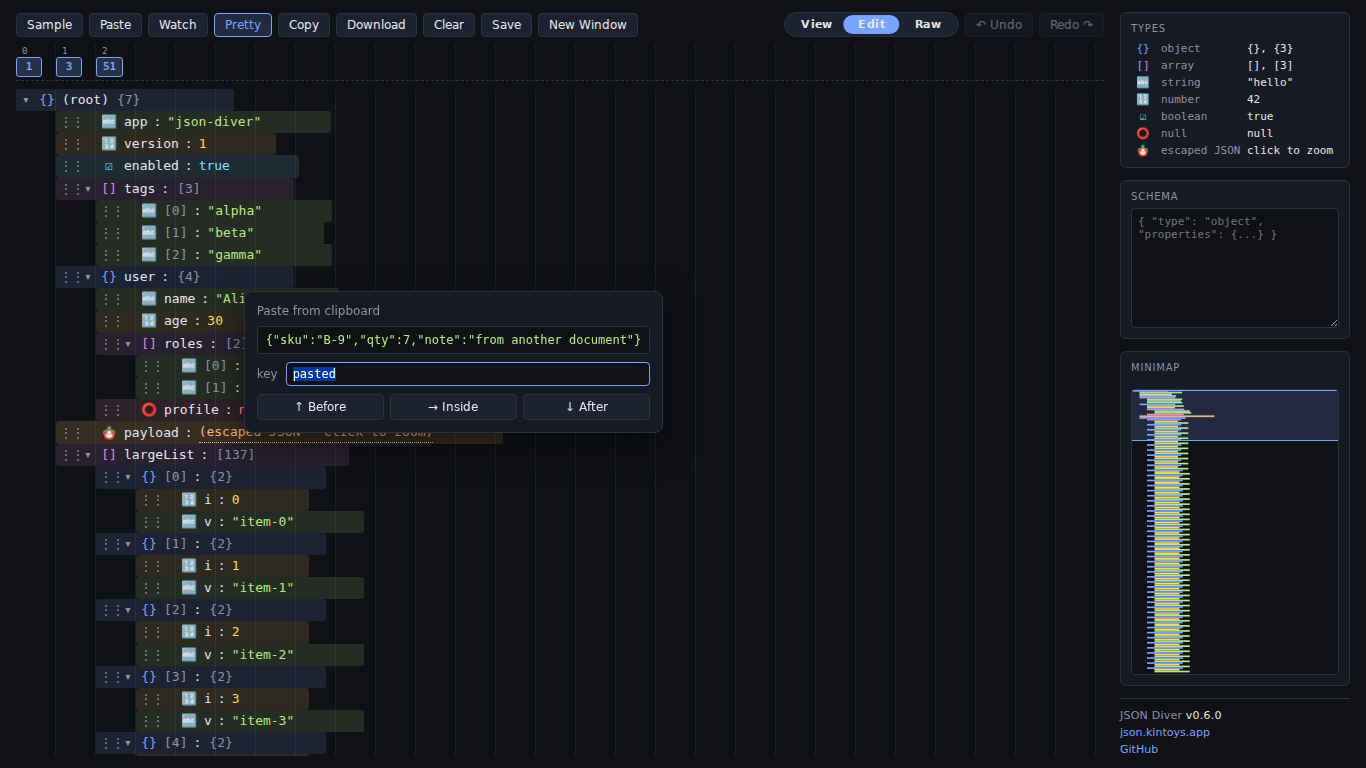
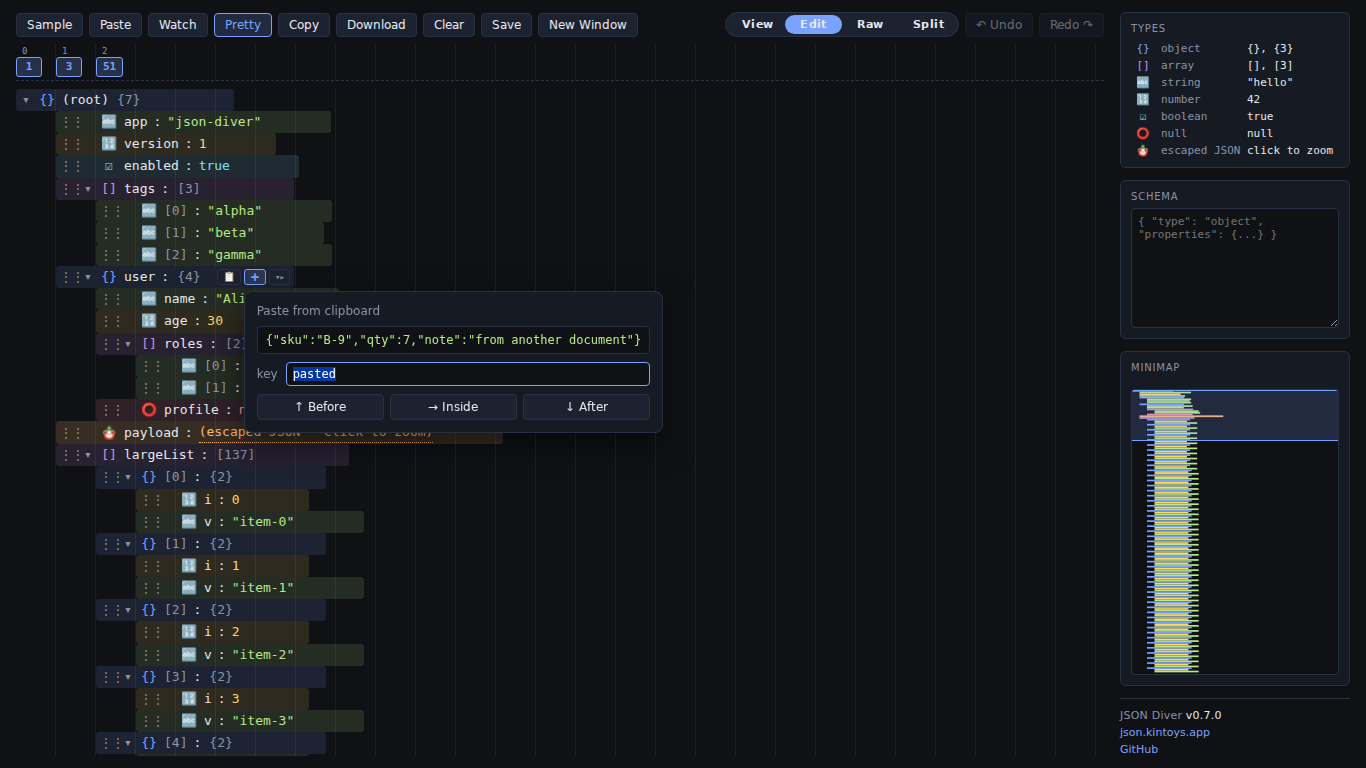
docs(store): スクリーンショットを v0.7.0 で更新し、Split を登録情報に追記
- 既存 6 枚を本番 (v0.7.0) から再撮影
- 06-split-two-documents.png を追加（ドラッグ中。左の user が右の features へ
  入る直前で、ドロップインジケータと受け側ペインの枠が出ている状態）。
  raw モードは 07 に繰り下げ、計 7 枚
- ドラッグ中の撮影は、アプリ自身の dragstart / dragover を発火させて行った。
  ヘッドレスのマウス操作では HTML5 ドラッグが開始されないため
- 日本語・英語の登録情報に Split を追記。4 モードの説明に変更し、機能一覧には
  上限 20 項目を保つためウィンドウ関連の 2 項目を 1 つに統合して枠を作った

Claude-Session: https://claude.ai/code/session_01SVssBrZETX7UxQiRKb8Lag

Changed region(s): [[0.8609, 0.5, 0.8917, 0.875], [0.5227, 0.0, 0.6764, 0.0625], [0.1537, 0.3438, 0.2152, 0.375]]

diff --git a/store/listing-ja.md b/store/listing-ja.md
@@ -43,14 +43,24 @@ JSON を階層ツリーとして描画するので、構造は「括弧を数え
 中身のミニツリーが見えます。サイドバーのミニマップは文書全体を型ごとに色分けした
 俯瞰図にし、クリックすればその位置へ飛べます。
 
-**その場で編集、あるいはテキストとして編集**
+**その場で編集、テキストとして編集、あるいは 2 文書を並べて編集**
 
-3 つのモードを 1 つのスイッチで切り替えます。
+4 つのモードを 1 つのスイッチで切り替えます。
 
 - **View** — 閲覧・コピー・ズームに専念
 - **Edit** — 値をクリックしてその場で編集。行のハンドルをドラッグして、ノードを
   別のノードの前・中・後ろへ移動
 - **Raw** — 生の JSON テキスト。手で打ったほうが速いときのために
+- **Split** — もう 1 つの文書を横に並べ、ノードを行き来させる
+
+**Split: 2 つの文書の間でノードを移動する**
+
+Split は、開いている文書の横にもう 1 つの文書を開きます。ハンドルを掴んで片方の
+ペインからもう片方へドラッグすると、ノードは**移動**します。元のペインから取り除かれ、
+落とした位置にキーを保ったまま入ります。宛先で既に使われているキーは上書きせず拒否し、
+着地したノードはハイライトされます。ペインをまたぐ移動は **Ctrl+Z 一回で両方の文書が
+元に戻ります**。API レスポンスから設定ファイルへブロックを引き抜くとき、エディタを
+経由せずに済みます。
 
 編集は文書をまたげます。どこかで JSON をコピーし（別ウィンドウのノードでも、
 チャットに貼られた断片でも）、入れたい行の **+** を押して、前・中・後ろのどこへ
@@ -114,13 +124,14 @@ https://github.com/motohasystem/json-diver
 9. ドラッグ＆ドロップでノードを移動（前に挿入／中に入れる／後ろに挿入）
 10. あらゆる編集に対する取り消し・やり直し（Ctrl+Z / Ctrl+Shift+Z）
 11. Raw モードで JSON をテキストとして直接編集
-12. Pretty トグル。2 スペース整形と 1 行圧縮を全体に一括適用
-13. JSON Schema による逐次検証。違反箇所をハイライトし、違反が増える編集は拒否
-14. クリップボードの JSON を、任意の行の前・中・後ろにノードとして挿入
-15. クリップボード監視。どのアプリでコピーした JSON も自動で読み込み
-16. ファイルの種類を関連付ければ `.json` をダブルクリックで起動
-17. Ctrl+S で元ファイルへ UTF-8 / BOM なしで上書き保存
-18. ファイルごとに別ウィンドウ。Ctrl+N で空の新規ウィンドウ
+12. Split モード。2 つの文書を左右に並べ、ノードを D&D で行き来させる
+13. Pretty トグル。2 スペース整形と 1 行圧縮を全体に一括適用
+14. JSON Schema による逐次検証。違反箇所をハイライトし、違反が増える編集は拒否
+15. クリップボードの JSON を、任意の行の前・中・後ろにノードとして挿入
+16. クリップボード監視。どのアプリでコピーした JSON も自動で読み込み
+17. ファイルの種類を関連付ければ `.json` をダブルクリックで起動
+18. Ctrl+S で元ファイルへ上書き保存（UTF-8 / BOM なし）。ファイルごとに別ウィンドウ、
+    Ctrl+N で空の新規ウィンドウ
 19. 任意のノード、または文書全体をワンクリックでクリップボードへコピー
 20. 完全オフライン動作。アカウント不要・テレメトリなし・データは端末外に出ません
 

diff --git a/store/listing-en.md b/store/listing-en.md
@@ -44,14 +44,24 @@ object shows a miniature of its contents without expanding it, and the minimap i
 sidebar turns the entire document into a colour-coded overview you can click to
 navigate.
 
-**Edit in place, or as text**
+**Edit in place, as text, or two documents at once**
 
-Three modes, one switch:
+Four modes, one switch:
 
 - **View** — read-only browsing, copying and zooming
 - **Edit** — click a value to change it inline; drag a row by its handle to move a
   node before, inside or after another one
 - **Raw** — the JSON as text, for when it is simply faster to type
+- **Split** — a second document beside the first, with nodes draggable between them
+
+**Split: move nodes between two documents**
+
+Split opens a second document beside the one you have open. Drag a node by its handle
+from one pane into the other and it moves there — out of the pane it came from, into
+the position you dropped it, keeping its key. A key already taken on the far side is
+refused rather than overwritten, the node that landed is highlighted, and one Ctrl+Z
+puts a cross-pane move back on both sides at once. It is how you lift a block out of an
+API response and drop it into a config file without a round trip through an editor.
 
 Editing also reaches across documents. Copy JSON anywhere — a node from another
 window, a fragment from a chat message — press **+** on the row you want it next to,
@@ -115,14 +125,15 @@ https://github.com/motohasystem/json-diver
 9. Move nodes by drag and drop — insert before, move inside, or insert after
 10. Undo and redo across every kind of edit (Ctrl+Z / Ctrl+Shift+Z)
 11. Raw mode for editing the JSON directly as text
-12. Pretty toggle: 2-space indentation or minified to one line, everywhere at once
-13. Validates against a JSON Schema as you type, highlighting violations in the tree,
+12. Split mode: two documents side by side, with nodes draggable from one to the other
+13. Pretty toggle: 2-space indentation or minified to one line, everywhere at once
+14. Validates against a JSON Schema as you type, highlighting violations in the tree,
     and refuses edits that would introduce new ones
-14. Inserts JSON from the clipboard as a new node, before, inside or after any row
-15. Clipboard watch: JSON copied in any application is loaded automatically
-16. Opens `.json` files on double-click once the file type is associated
-17. Ctrl+S saves back over the original file as UTF-8 without a BOM
-18. Opens each file in its own window; Ctrl+N for a new empty one
+15. Inserts JSON from the clipboard as a new node, before, inside or after any row
+16. Clipboard watch: JSON copied in any application is loaded automatically
+17. Opens `.json` files on double-click once the file type is associated
+18. Ctrl+S saves back over the original file as UTF-8 without a BOM; each file opens
+    in its own window, and Ctrl+N gives you an empty one
 19. Copies any node — or the whole document — to the clipboard in one click
 20. Works fully offline: no account, no telemetry, nothing leaves the device
 

diff --git a/store/README.md b/store/README.md
@@ -23,9 +23,10 @@ build serves both, only the listing text differs.
 | `03-escaped-json-zoom.png` | Escaped JSON zoomed into its own window, with a further escaped value inside |
 | `04-schema-validation.png` | JSON Schema validation: violating rows highlighted, ⚠ 3 badge in the toolbar |
 | `05-insert-from-clipboard.png` | Inserting a node from the clipboard: the popup with its before/inside/after choice |
-| `06-raw-mode.png` | Raw mode — the JSON as editable text |
+| `06-split-two-documents.png` | Split mode mid-drag: a node on its way from the left document into the right one |
+| `07-raw-mode.png` | Raw mode — the JSON as editable text |
 
-All six are 1366×768 PNG, above the Store's minimum for PC screenshots.
+All seven are 1366×768 PNG, above the Store's minimum for PC screenshots.
 
 **How they were produced, and what to check.** They were captured from the shipping
 app at <https://json.kintoys.app> with the desktop shell's DOM applied — the topbar
@@ -35,7 +36,11 @@ captures of the installed `.msix`. If you would rather ship literal desktop capt
 take them from the installed app at 1366×768 or larger and replace the files; the
 listing text does not depend on them.
 
-The version badge in the sidebar reads `v0.6.0`. Re-capture when that number changes
+The Split shot is taken mid-drag by dispatching the app's own `dragstart` / `dragover`
+events, so the drop indicator and the receiving-pane outline are the real ones the app
+renders — a plain mouse-down does not start an HTML5 drag in a headless browser.
+
+The version badge in the sidebar reads `v0.7.0`. Re-capture when that number changes
 so the screenshots do not advertise an older build:
 
 ```bash
